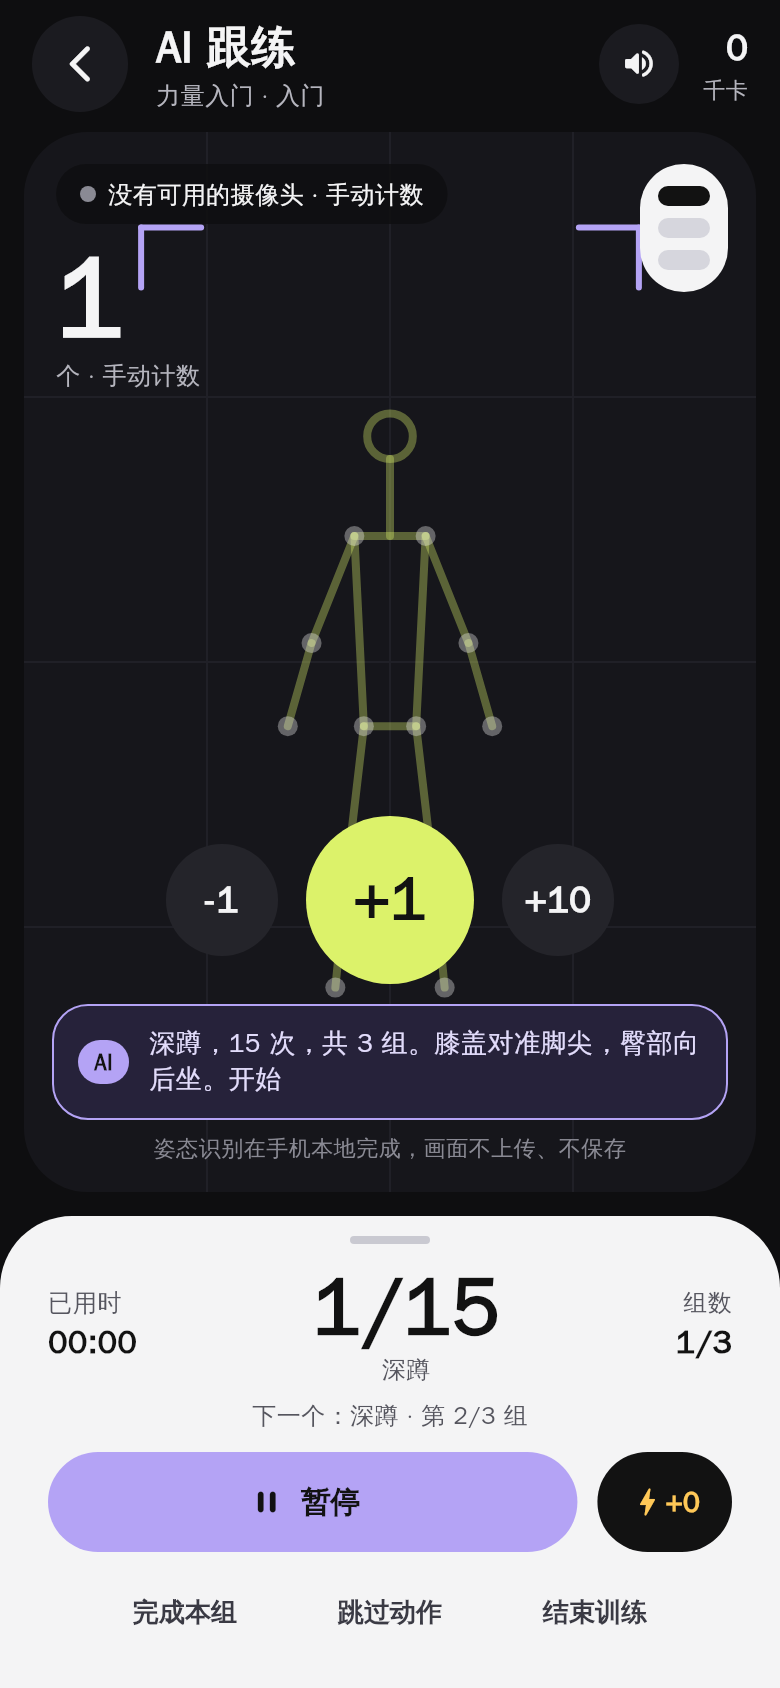
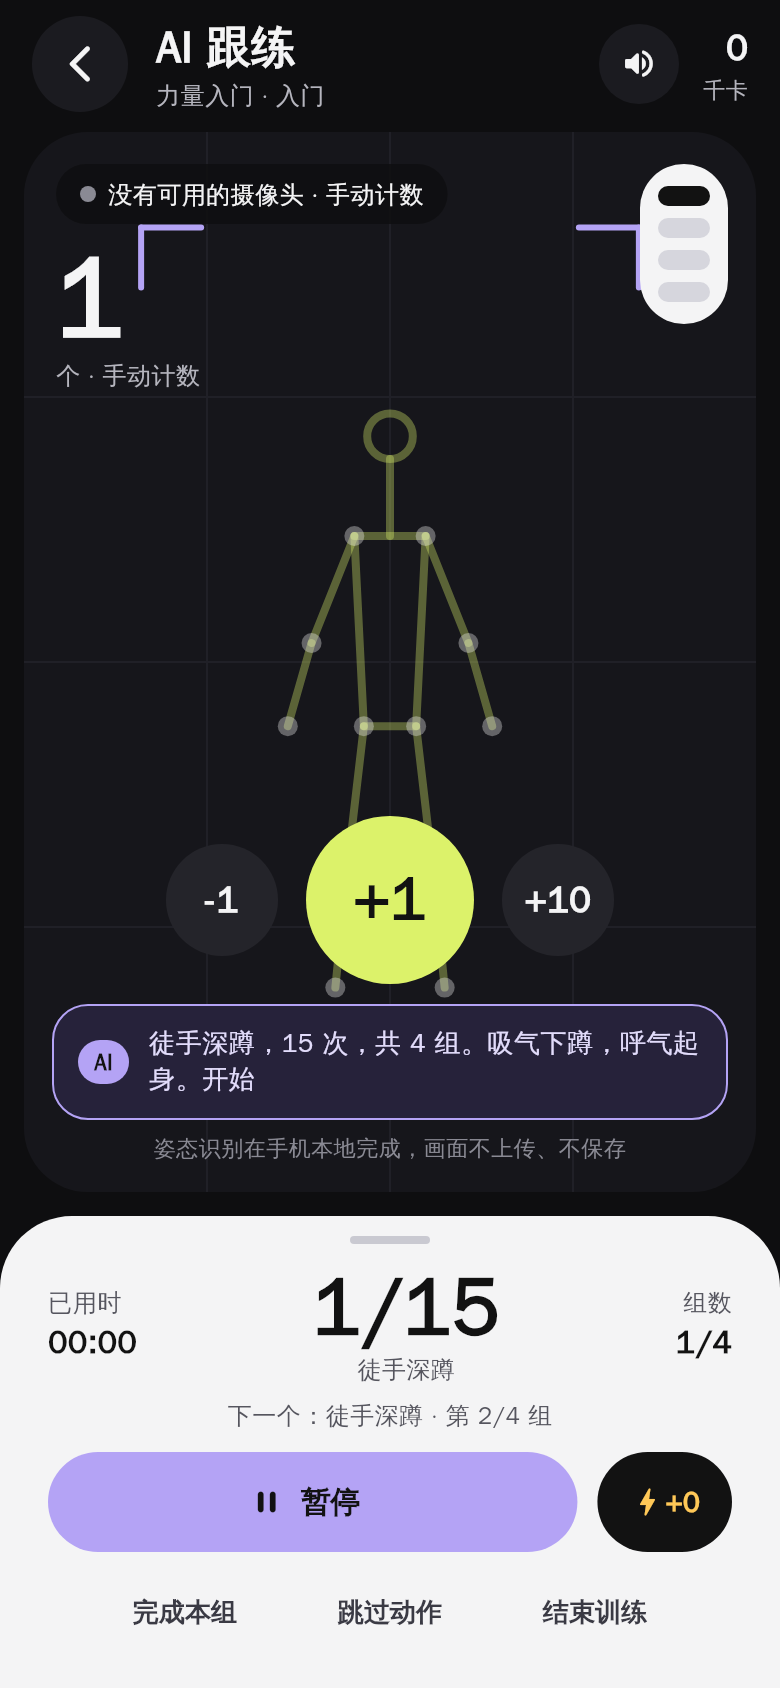
V2 batch 3 AI: integration fixes; Android debug build
- AI boss cards use hp_max / expires_at like the rest of the API
- AI route suggestions stay on the start page when the model is off
  (rule-based; only the one-line reason needs the model)
- live community test follows the new auto-approve line (20)
- Android: bump plugin library modules to compileSdk 36 (amap_map pinned
  an older one), so the debug APK builds

Claude-Session: https://claude.ai/code/session_01QRaVtoKTX5sqZRs9rKjLUf

diff --git a/app/lib/features/start/gps_setup_page.dart b/app/lib/features/start/gps_setup_page.dart
@@ -6,7 +6,6 @@ import '../../api/ai_models.dart';
 import '../../api/errors.dart';
 import '../../api/models.dart';
 import '../../claim/geo.dart';
-import '../../core/features.dart';
 import '../../core/format.dart';
 import '../../core/providers.dart';
 import '../../core/theme.dart';
@@ -196,7 +195,8 @@ class _GpsSetupPageState extends ConsumerState<GpsSetupPage> {
     final out = <Widget>[];
     final chat = widget.aiRoute;
     if (chat != null) out.add(_aiTile(chat, 'chat'));
-    if (!ref.watch(aiEnabledProvider)) return out;
+    // Routes are rule-based on the server (the model only writes the
+    // reason), so they stay available when AI is turned off.
     final me = _me;
     if (me == null) {
       out.add(_locating
@@ -293,7 +293,7 @@ class _GpsSetupPageState extends ConsumerState<GpsSetupPage> {
               const SizedBox(height: 18),
               Row(children: [
                 const Expanded(child: Text('本次目标', style: TextStyle(color: LL.text2))),
-                if (ref.watch(aiEnabledProvider) && _me != null)
+                if (_me != null)
                   TextButton.icon(
                     style: TextButton.styleFrom(foregroundColor: LL.lavender, visualDensity: VisualDensity.compact),
                     onPressed: () => ref.invalidate(aiRoutesProvider(aiRoutesQuery(_me!, _sport, _aiKm))),

diff --git a/app/test/widgets/ai_pages_test.dart b/app/test/widgets/ai_pages_test.dart
@@ -466,7 +466,7 @@ void main() {
     await settle(t);
   });
 
-  testWidgets('开跑 page: AI routes loading error with retry; hidden when AI is off', (t) async {
+  testWidgets('开跑 page: AI routes loading error with retry; still shown when AI is off', (t) async {
     await phone(t, size: const Size(390, 1300));
     final ai = AiFake();
     var fail = true;
@@ -492,8 +492,9 @@ void main() {
     await t.pumpWidget(aiApp('/start/gps', aiBackend(AiFake(enabled: false))));
     await idle(t);
     expect(find.text('自由圈地 · 推荐'), findsOneWidget);
-    expect(find.text('AI 推荐闭环'), findsNothing);
-    expect(find.text('刷新 AI 路线'), findsNothing);
+    // Routes are rule-based: still offered when the model is off.
+    expect(find.text('AI 推荐闭环'), findsOneWidget);
+    expect(find.text('刷新 AI 路线'), findsOneWidget);
     await settle(t);
   });
 

diff --git a/app/test/widgets/ai_fake.dart b/app/test/widgets/ai_fake.dart
@@ -128,9 +128,9 @@ J bossCard() => {
         'id': 3,
         'name': '沙发怪',
         'hp': 1900,
-        'max_hp': 5000,
+        'hp_max': 5000,
         'center': {'lat': origin.lat + 0.002, 'lng': origin.lng + 0.002},
-        'ends_at': DateTime.now().add(const Duration(hours: 3)).toIso8601String(),
+        'expires_at': DateTime.now().add(const Duration(hours: 3)).toIso8601String(),
       },
     };
 
@@ -260,7 +260,7 @@ class AiFake {
     }
     if (p == '/v1/ai/routes') {
       routesCalls++;
-      if (!enabled) return _err(503, 'ai_unavailable');
+      // Like the server: routes are rule-based and work without a model.
       return (200, {
         'items': [aiRouteJson('loop'), aiRouteJson('capture'), aiRouteJson('boss')],
         'ai_generated': true,

diff --git a/app/integration_live/community_live_test.dart b/app/integration_live/community_live_test.dart
@@ -68,8 +68,9 @@ void main() {
     expect(post.activity!.id, actId);
     expect(post.activity!.distanceM, greaterThan(1000));
     expect(post.visibility, 'public');
-    // A brand-new account posting a photo scores 20 (< 30): approved directly.
-    expect(post.reviewStatus, ReviewStatus.approved);
+    // A brand-new account posting a photo scores 20, which is the default
+    // auto-approve line (< 20 passes): it waits for review.
+    expect(post.reviewStatus, ReviewStatus.pending);
 
     // Contact info scores 50: queued for review, visible to the author only.
     final pending = await a.createPost(const NewPost(content: '一起跑步加我电话 13912345678'));

diff --git a/app/test/api/ai_api_test.dart b/app/test/api/ai_api_test.dart
@@ -107,7 +107,7 @@ void main() {
       final evs = await aiChatEvents(Stream.fromIterable(const [
         SseEvent('delta', '{"text":"往东"}'),
         SseEvent('ping', '{}'),
-        SseEvent('card', '{"type":"boss","boss":{"id":5,"name":"沙发怪","hp":1200,"max_hp":5000}}'),
+        SseEvent('card', '{"type":"boss","boss":{"id":5,"name":"沙发怪","hp":1200,"hp_max":5000}}'),
         SseEvent('delta', 'not json'),
         SseEvent('error', '{"code":"ai_unavailable","message":"挂了"}'),
         SseEvent('delta', '{"text":"never"}'),

diff --git a/app/lib/features/coach/coach_session_page.dart b/app/lib/features/coach/coach_session_page.dart
@@ -749,7 +749,10 @@ class _CoachSessionViewState extends ConsumerState<CoachSessionView> with Widget
           if (done)
             Padding(
               padding: const EdgeInsets.only(top: 6),
-              child: _SheetLink(label: '不领取，返回', onTap: () => context.pop()),
+              child: _SheetLink(
+                label: '不领取，返回',
+                onTap: () => context.canPop() ? context.pop() : context.go('/start'),
+              ),
             ),
         ]),
       ),

diff --git a/app/test/widgets/screens_test.dart b/app/test/widgets/screens_test.dart
@@ -139,7 +139,9 @@ void main() {
     expect(find.text('即将开放'), findsOneWidget);
     await t.tap(find.text('居家跟练'));
     await t.pump();
-    expect(find.text('开始训练'), findsOneWidget);
+    // AI 跟练 first; the old free-form timer stays as 「手动记录」.
+    expect(find.text('AI 跟练'), findsOneWidget);
+    expect(find.text('手动记录'), findsOneWidget);
     await settle(t);
   });
 }

diff --git a/app/lib/api/ai_models.dart b/app/lib/api/ai_models.dart
@@ -223,9 +223,9 @@ class AIBossRef {
         id: ji(j['id']),
         name: js(j['name']),
         hp: ji(j['hp']),
-        maxHp: ji(j['max_hp'], 1),
+        maxHp: ji(j['hp_max'] ?? j['max_hp'], 1),
         center: _ll(j['center']),
-        endsAt: jdt(j['ends_at']),
+        endsAt: jdt(j['expires_at'] ?? j['ends_at']),
       );
 }
 

diff --git a/server/internal/ai/tools.go b/server/internal/ai/tools.go
@@ -42,9 +42,9 @@ type BossCard struct {
 	ID     int64     `json:"id"`
 	Name   string    `json:"name"`
 	HP     int       `json:"hp"`
-	MaxHP  int       `json:"max_hp"`
+	MaxHP  int       `json:"hp_max"`
 	Center LatLng    `json:"center"`
-	EndsAt time.Time `json:"ends_at"`
+	EndsAt time.Time `json:"expires_at"`
 }
 
 // ToolFunc runs a tool: the result goes back to the model, cards to the user.
@@ -307,7 +307,7 @@ func (s *Service) nearbyBosses(ctx context.Context, user int64, pos LatLng) (any
 	var cards []Card
 	bl := []map[string]any{}
 	for _, b := range bosses {
-		bl = append(bl, map[string]any{"id": b.ID, "name": b.Name, "hp": b.HP, "max_hp": b.MaxHP, "distance_km": math.Round(b.DistanceM/100) / 10,
+		bl = append(bl, map[string]any{"id": b.ID, "name": b.Name, "hp": b.HP, "hp_max": b.MaxHP, "distance_km": math.Round(b.DistanceM/100) / 10,
 			"hours_left": math.Ceil(time.Until(b.EndsAt).Hours())})
 		if len(cards) < 2 {
 			cards = append(cards, Card{Type: "boss", Boss: &BossCard{ID: b.ID, Name: b.Name, HP: b.HP, MaxHP: b.MaxHP, Center: round(b.Center), EndsAt: b.EndsAt}})

diff --git a/docs/api/v2-3-AI.md b/docs/api/v2-3-AI.md
@@ -63,7 +63,7 @@
 ```json
 { "type": "route", "route": Route }
 { "type": "territory", "territory": { "id": 12, "name": "西岸草坪", "owner": { "id": 3, "nickname": "..." }, "crew": { "id": 2, "name": "城西跑团" }, "guard": 42, "center": { "lat": 31.2, "lng": 121.4 } } }
-{ "type": "boss", "boss": { "id": 5, "name": "沙发怪", "hp": 1200, "max_hp": 5000, "center": { "lat": 31.2, "lng": 121.4 }, "ends_at": "..." } }
+{ "type": "boss", "boss": { "id": 5, "name": "沙发怪", "hp": 1200, "hp_max": 5000, "center": { "lat": 31.2, "lng": 121.4 }, "expires_at": "..." } }
 ```
 
 ### GET /v1/ai/greeting?lat=&lng= → `{"text":"晚上好阿杰！今天你已经拿了 320 能量……","suggestions":["规划圈地路线","今晚去哪抢地","生成今日战报","帮我排一周计划"],"ai_generated":false}`
